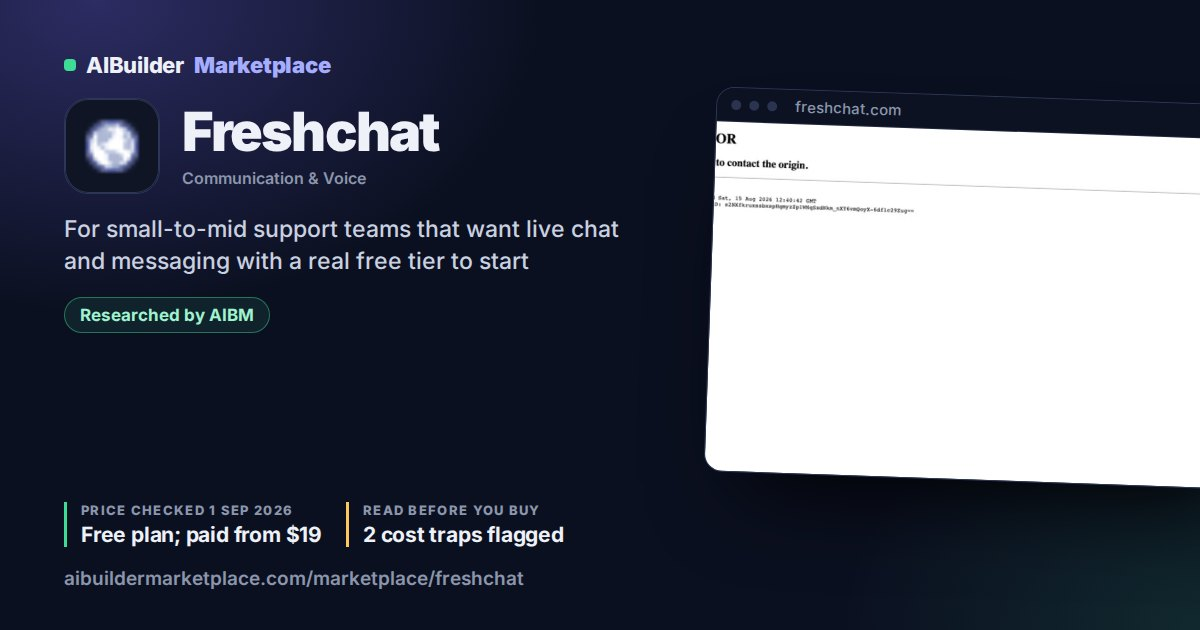
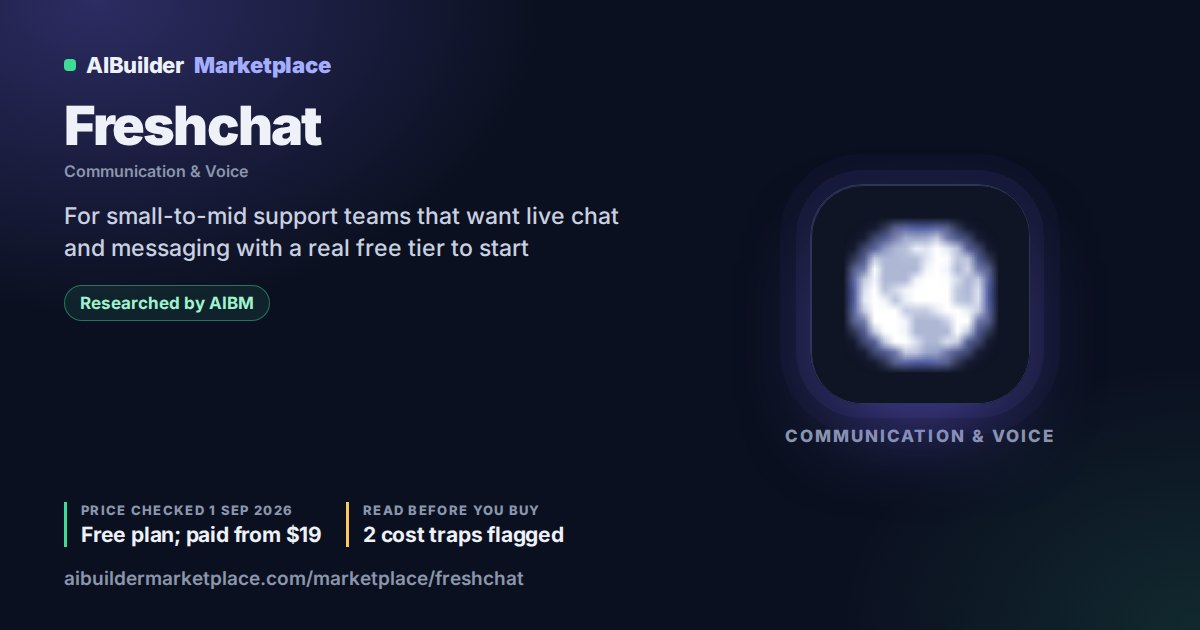
marketplace: automatische herbouw (580 pagina's)

Changed region(s): [[0.5858, 0.1508, 1.0, 0.7841], [0.0308, 0.3317, 0.5242, 0.5429], [0.0308, 0.1508, 0.37, 0.3016]]

diff --git a/marketplace/index.html b/marketplace/index.html
@@ -805,7 +805,7 @@ a.cta:hover{background:linear-gradient(120deg,#7b82ff,#a77cff)}
 <div class="mc" data-slug="hive" data-zoek="hive operations &amp; workflow projects, planning &amp; team workflow project teams that want flexible pm (gantt, kanban, forms, chat) and only pay for the modules they actually use" data-cat="Operations &amp; Workflow" data-hoofd="Operations &amp; HR" data-gratis="1" data-publiek="1" data-taak="projects, planning &amp; team workflow" data-eigen="operations &amp; workflow project teams that want flexible pm (gantt, kanban, forms, chat) and only pay for the modules they actually use" data-claimed="0" data-groepw="operations &amp; hr project task workflow hr hiring time tracking scheduling team" data-recent="2026-09-03" data-listed="" data-prijs="5" data-vlaggen="3" data-datum="2026-09-03" data-naam="hive" data-i="234"><a class="mc-l" href="/marketplace/hive/"><div class="mc-md"><img src="/marketplace/media/shot-hive.webp" alt="Hive product page" loading="lazy" width="720" height="450"></div><div class="mc-b"><div class="mc-top"><div class="mono" aria-hidden="true">H<img class="fav" src="https://www.google.com/s2/favicons?sz=128&amp;domain=hive.com" alt="" loading="lazy" onerror="this.remove()"></div><div class="mc-h"><h3><strong>Hive</strong></h3><p class="mc-cat">Operations &amp; Workflow</p></div></div><p class="mc-d"><span style="color:#a8b3c4">For</span> project teams that want flexible PM (Gantt, Kanban, forms, chat) and only pay for the modules they actually use</p><p class="mc-p"><b>Free plan; paid from $5</b><span>per user a month, yearly billing</span></p><p class="mc-w">Watch for: Per-seat pricing, Usage-metered</p><div class="mc-f"><span class="st st-r">Researched by AIBM</span> </div><div class="mc-dt">Price checked by us 3 Sep 2026</div></div></a><label class="mc-cmp"><input type="checkbox" value="hive" aria-label="Compare Hive"> Compare</label></div>
 <div class="mc" data-slug="modge" data-zoek="modge hr &amp; people time tracking, shifts &amp; attendance desk-bound remote or hybrid teams of a few to a few hundred people who want time tracking, app classification, shift…" data-cat="HR &amp; People" data-hoofd="Operations &amp; HR" data-gratis="0" data-publiek="1" data-taak="time tracking, shifts &amp; attendance" data-eigen="hr &amp; people desk-bound remote or hybrid teams of a few to a few hundred people who want time tracking, app classification, shift…" data-claimed="0" data-groepw="operations &amp; hr project task workflow hr hiring time tracking scheduling team" data-recent="2026-09-03" data-listed="" data-prijs="4" data-vlaggen="3" data-datum="2026-09-03" data-naam="modge" data-i="312"><a class="mc-l" href="/marketplace/modge/"><div class="mc-md"><img src="/marketplace/media/shot-modge.webp" alt="Modge product page" loading="lazy" width="720" height="450"></div><div class="mc-b"><div class="mc-top"><div class="mono" aria-hidden="true">M<img class="fav" src="https://www.google.com/s2/favicons?sz=128&amp;domain=modge.com" alt="" loading="lazy" onerror="this.remove()"></div><div class="mc-h"><h3><strong>Modge</strong></h3><p class="mc-cat">HR &amp; People</p></div></div><p class="mc-d"><span style="color:#a8b3c4">For</span> desk-bound remote or hybrid teams of a few to a few hundred people who want time tracking, app classification, shift…</p><p class="mc-p"><b>from $4</b><span>Basic · per seat a month billed annually ($5 monthly)</span></p><p class="mc-w">Watch for: Per-seat pricing, Add-ons extra</p><div class="mc-f"><span class="st st-r">Researched by AIBM</span> </div><div class="mc-dt">Price checked by us 3 Sep 2026</div></div></a><label class="mc-cmp"><input type="checkbox" value="modge" aria-label="Compare Modge"> Compare</label></div>
 <div class="mc" data-slug="chemicloud" data-zoek="chemicloud it &amp; productivity hosting &amp; websites small businesses, freelancers and growing sites that want fast, well-supported managed shared or wordpress hosting at…" data-cat="IT &amp; Productivity" data-hoofd="IT, security &amp; dev" data-gratis="0" data-publiek="1" data-taak="hosting &amp; websites" data-eigen="it &amp; productivity small businesses, freelancers and growing sites that want fast, well-supported managed shared or wordpress hosting at…" data-claimed="0" data-groepw="it, security &amp; dev security password vpn backup hosting website developer api ai data" data-recent="2026-09-02" data-listed="" data-prijs="1.95" data-vlaggen="1" data-datum="2026-09-02" data-naam="chemicloud" data-i="99"><a class="mc-l" href="/marketplace/chemicloud/"><div class="mc-md"><img src="/marketplace/media/shot-chemicloud.webp" alt="ChemiCloud product page" loading="lazy" width="720" height="450"></div><div class="mc-b"><div class="mc-top"><div class="mono" aria-hidden="true">C<img class="fav" src="https://www.google.com/s2/favicons?sz=128&amp;domain=chemicloud.com" alt="" loading="lazy" onerror="this.remove()"></div><div class="mc-h"><h3><strong>ChemiCloud</strong></h3><p class="mc-cat">IT &amp; Productivity</p></div></div><p class="mc-d"><span style="color:#a8b3c4">For</span> small businesses, freelancers and growing sites that want fast, well-supported managed shared or WordPress hosting at…</p><p class="mc-p"><b>from $1.95</b><span>per month on the 36-month term (September campaign)</span></p><p class="mc-w">Watch for: Renewal jump</p><div class="mc-f"><span class="st st-r">Researched by AIBM</span> </div><div class="mc-dt">Price checked by us 2 Sep 2026</div></div></a><label class="mc-cmp"><input type="checkbox" value="chemicloud" aria-label="Compare ChemiCloud"> Compare</label></div>
-<div class="mc" data-slug="freshchat" data-zoek="freshchat communication &amp; voice website or shopify chat &amp; faq deflection small-to-mid support teams that want live chat and messaging with a real free tier to start" data-cat="Communication &amp; Voice" data-hoofd="Support &amp; phone" data-gratis="1" data-publiek="1" data-taak="website or shopify chat &amp; faq deflection" data-eigen="communication &amp; voice small-to-mid support teams that want live chat and messaging with a real free tier to start" data-claimed="0" data-groepw="support &amp; phone helpdesk help desk ticket tickets chat live chat phone call calls voip support" data-recent="2026-09-01" data-listed="" data-prijs="19" data-vlaggen="2" data-datum="2026-09-01" data-naam="freshchat" data-i="202"><a class="mc-l" href="/marketplace/freshchat/"><div class="mc-md"><img src="/marketplace/media/shot-freshchat.webp" alt="Freshchat product page" loading="lazy" width="720" height="450"></div><div class="mc-b"><div class="mc-top"><div class="mono" aria-hidden="true">F<img class="fav" src="https://www.google.com/s2/favicons?sz=128&amp;domain=freshchat.com" alt="" loading="lazy" onerror="this.remove()"></div><div class="mc-h"><h3><strong>Freshchat</strong></h3><p class="mc-cat">Communication &amp; Voice</p></div></div><p class="mc-d"><span style="color:#a8b3c4">For</span> small-to-mid support teams that want live chat and messaging with a real free tier to start</p><p class="mc-p"><b>Free plan; paid from $19</b><span>per agent a month billed annually ($23 monthly)</span></p><p class="mc-w">Watch for: Per-seat pricing, Add-ons extra</p><div class="mc-f"><span class="st st-r">Researched by AIBM</span> </div><div class="mc-dt">Price checked by us 1 Sep 2026</div></div></a><label class="mc-cmp"><input type="checkbox" value="freshchat" aria-label="Compare Freshchat"> Compare</label></div>
+<div class="mc" data-slug="freshchat" data-zoek="freshchat communication &amp; voice website or shopify chat &amp; faq deflection small-to-mid support teams that want live chat and messaging with a real free tier to start" data-cat="Communication &amp; Voice" data-hoofd="Support &amp; phone" data-gratis="1" data-publiek="1" data-taak="website or shopify chat &amp; faq deflection" data-eigen="communication &amp; voice small-to-mid support teams that want live chat and messaging with a real free tier to start" data-claimed="0" data-groepw="support &amp; phone helpdesk help desk ticket tickets chat live chat phone call calls voip support" data-recent="2026-09-01" data-listed="" data-prijs="19" data-vlaggen="2" data-datum="2026-09-01" data-naam="freshchat" data-i="202"><a class="mc-l" href="/marketplace/freshchat/"><div class="mc-md mc-leeg"><div class="mc-mono"><div class="mono" aria-hidden="true">F<img class="fav" src="https://www.google.com/s2/favicons?sz=128&amp;domain=freshchat.com" alt="" loading="lazy" onerror="this.remove()"></div><span>Communication &amp; Voice</span></div></div><div class="mc-b"><div class="mc-top"><div class="mono" aria-hidden="true">F<img class="fav" src="https://www.google.com/s2/favicons?sz=128&amp;domain=freshchat.com" alt="" loading="lazy" onerror="this.remove()"></div><div class="mc-h"><h3><strong>Freshchat</strong></h3><p class="mc-cat">Communication &amp; Voice</p></div></div><p class="mc-d"><span style="color:#a8b3c4">For</span> small-to-mid support teams that want live chat and messaging with a real free tier to start</p><p class="mc-p"><b>Free plan; paid from $19</b><span>per agent a month billed annually ($23 monthly)</span></p><p class="mc-w">Watch for: Per-seat pricing, Add-ons extra</p><div class="mc-f"><span class="st st-r">Researched by AIBM</span> </div><div class="mc-dt">Price checked by us 1 Sep 2026</div></div></a><label class="mc-cmp"><input type="checkbox" value="freshchat" aria-label="Compare Freshchat"> Compare</label></div>
 <div class="mc" data-slug="pylon" data-zoek="pylon communication &amp; voice a help desk, tickets or a shared inbox b2b saas teams supporting customers in shared slack/teams channels who want tickets, accounts and ai in one…" data-cat="Communication &amp; Voice" data-hoofd="Support &amp; phone" data-gratis="0" data-publiek="0" data-taak="a help desk, tickets or a shared inbox" data-eigen="communication &amp; voice b2b saas teams supporting customers in shared slack/teams channels who want tickets, accounts and ai in one…" data-claimed="0" data-groepw="support &amp; phone helpdesk help desk ticket tickets chat live chat phone call calls voip support" data-recent="2026-09-01" data-listed="" data-prijs="999999" data-vlaggen="2" data-datum="2026-09-01" data-naam="pylon" data-i="387"><a class="mc-l" href="/marketplace/pylon/"><div class="mc-md"><img src="/marketplace/media/shot-pylon.webp" alt="Pylon product page" loading="lazy" width="720" height="450"></div><div class="mc-b"><div class="mc-top"><div class="mono" aria-hidden="true">P<img class="fav" src="https://www.google.com/s2/favicons?sz=128&amp;domain=usepylon.com" alt="" loading="lazy" onerror="this.remove()"></div><div class="mc-h"><h3><strong>Pylon</strong></h3><p class="mc-cat">Communication &amp; Voice</p></div></div><p class="mc-d"><span style="color:#a8b3c4">For</span> B2B SaaS teams supporting customers in shared Slack/Teams channels who want tickets, accounts and AI in one…</p><p class="mc-w">Watch for: Per-seat pricing, Usage-metered</p><div class="mc-f"><span class="st st-r">Researched by AIBM</span> </div><div class="mc-dt">Price checked by us 1 Sep 2026</div></div></a><label class="mc-cmp"><input type="checkbox" value="pylon" aria-label="Compare Pylon"> Compare</label></div>
 <div class="mc" data-slug="emergent" data-zoek="emergent it &amp; productivity ai development, agents &amp; data founders, pms and builders who want to turn a prompt into a working full-stack web app or mvp fast, without writing…" data-cat="IT &amp; Productivity" data-hoofd="IT, security &amp; dev" data-gratis="1" data-publiek="1" data-taak="ai development, agents &amp; data" data-eigen="it &amp; productivity founders, pms and builders who want to turn a prompt into a working full-stack web app or mvp fast, without writing…" data-claimed="0" data-groepw="it, security &amp; dev security password vpn backup hosting website developer api ai data" data-recent="2026-08-31" data-listed="" data-prijs="20" data-vlaggen="2" data-datum="2026-08-31" data-naam="emergent" data-i="164"><a class="mc-l" href="/marketplace/emergent/"><div class="mc-md"><img src="/marketplace/media/shot-emergent.webp" alt="Emergent product page" loading="lazy" width="720" height="450"></div><div class="mc-b"><div class="mc-top"><div class="mono" aria-hidden="true">E<img class="fav" src="https://www.google.com/s2/favicons?sz=128&amp;domain=emergent.sh" alt="" loading="lazy" onerror="this.remove()"></div><div class="mc-h"><h3><strong>Emergent</strong></h3><p class="mc-cat">IT &amp; Productivity</p></div></div><p class="mc-d"><span style="color:#a8b3c4">For</span> founders, PMs and builders who want to turn a prompt into a working full-stack web app or MVP fast, without writing…</p><p class="mc-p"><b>Free plan; paid from $20</b><span>per month ($17 yearly) for 100 credits</span></p><p class="mc-w">Watch for: Usage-metered, Annual commit</p><div class="mc-f"><span class="st st-r">Researched by AIBM</span> </div><div class="mc-dt">Price checked by us 31 Aug 2026</div></div></a><label class="mc-cmp"><input type="checkbox" value="emergent" aria-label="Compare Emergent"> Compare</label></div>
 <div class="mc" data-slug="fast-bundle" data-zoek="fast bundle marketing e-commerce growth boost you shopify store aov with bundle and upsell offers like free gifts, bogo, bundle builder, fbt, &amp; volume…" data-cat="Marketing" data-hoofd="Marketing &amp; sales" data-gratis="0" data-publiek="1" data-taak="e-commerce growth" data-eigen="marketing boost you shopify store aov with bundle and upsell offers like free gifts, bogo, bundle builder, fbt, &amp; volume…" data-claimed="1" data-groepw="marketing &amp; sales email newsletter crm leads outreach seo ads advertising social marketing sales" data-recent="2026-08-31" data-listed="2026-08-31" data-prijs="19" data-vlaggen="2" data-datum="2026-08-24" data-naam="fast bundle" data-i="182"><a class="mc-l" href="/marketplace/fast-bundle/"><div class="mc-md"><img src="/marketplace/media/fast-bundle-shot0.png" alt="Fast Bundle product page" loading="lazy" width="720" height="450"></div><div class="mc-b"><div class="mc-top"><img src="/marketplace/media/fast-bundle-logo.png" alt="" loading="lazy" width="40" height="40"><div class="mc-h"><h3><strong>Fast Bundle</strong></h3><p class="mc-cat">Marketing</p></div></div><p class="mc-d">Boost you Shopify store AOV with bundle and upsell offers like Free Gifts, BOGO, Bundle Builder, FBT, &amp; volume…</p><p class="mc-p"><b>from $19</b><span>Standard (1K) · per month on the App Store listing, or $180 a year…</span></p><p class="mc-w">Watch for: Usage-metered, Annual commit</p><div class="mc-f"><span class="st st-r">Researched by AIBM</span> <span class="st st-v">Listed by the vendor</span> <span class="st st-d">Reader deal</span> </div><div class="mc-dt">Price checked by us 24 Aug 2026 &middot; Listed 31 Aug 2026</div></div></a><label class="mc-cmp"><input type="checkbox" value="fast-bundle" aria-label="Compare Fast Bundle"> Compare</label></div>

diff --git a/marketplace/freshchat/index.html b/marketplace/freshchat/index.html
@@ -225,7 +225,7 @@ a.cta:hover{background:linear-gradient(120deg,#7b82ff,#a77cff)}
 <nav class="nav"><div class="nav-in"><a href="/" class="logo-t"><em>AIBuilder</em> Marketplace</a><div class="navl"><a href="/marketplace/">Marketplace</a><a href="/atlas/">Atlas</a><a href="/b2b/">Reviews</a><a href="/deals/">Deals</a><a href="/tools/">Free Tools</a><a href="/about/">About</a></div></div></nav>
 <nav class="subnav" aria-label="Marketplace listings"><div class="subnav-in"><a class="sn-back" href="/marketplace/">&larr; Marketplace</a><span class="sn-pos">203 of 580</span><div class="sn-pn"><a class="sn-b" rel="prev" href="/marketplace/freshbooks/" title="Previous listing: FreshBooks" aria-label="Previous listing: FreshBooks">&larr; <span>FreshBooks</span></a><a class="sn-b" rel="next" href="/marketplace/freshservice/" title="Next listing: Freshservice" aria-label="Next listing: Freshservice"><span>Freshservice</span> &rarr;</a></div></div></nav>
 <div class="wrap lp">
-<div class="lp-hero"><div><div class="mono" aria-hidden="true">F<img class="fav" src="https://www.google.com/s2/favicons?sz=128&amp;domain=freshchat.com" alt="" loading="lazy" onerror="this.remove()"></div><h1>Freshchat</h1><p class="lp-lede">For small-to-mid support teams that want live chat and messaging with a real free tier to start</p><div><span class="st st-r">Researched by AIBM</span> <span class="st st-o">Not claimed by the vendor</span></div><div class="lp-acts"><a class="cta" href="https://affiliatepartner-freshchat.freshworks.com/613iz3k6u70i" target="_blank" rel="sponsored nofollow noopener">Visit Freshchat &rarr;</a><a class="btn" href="/marketplace/compare/?t=freshchat">Compare</a><button type="button" class="btn" data-deel>Share</button></div><p class="lp-disc">Affiliate disclosure: this is a partner link. We may earn a commission if you sign up, at no extra cost to you. It does not change what our research says.</p></div><div class="frame"><div class="mz-bar"><i></i><i></i><i></i><span>freshchat.com</span></div><img src="/marketplace/media/shot-freshchat.webp" alt="Freshchat product page" width="720" height="450"></div></div>
+<div class="lp-hero"><div><div class="mono" aria-hidden="true">F<img class="fav" src="https://www.google.com/s2/favicons?sz=128&amp;domain=freshchat.com" alt="" loading="lazy" onerror="this.remove()"></div><h1>Freshchat</h1><p class="lp-lede">For small-to-mid support teams that want live chat and messaging with a real free tier to start</p><div><span class="st st-r">Researched by AIBM</span> <span class="st st-o">Not claimed by the vendor</span></div><div class="lp-acts"><a class="cta" href="https://affiliatepartner-freshchat.freshworks.com/613iz3k6u70i" target="_blank" rel="sponsored nofollow noopener">Visit Freshchat &rarr;</a><a class="btn" href="/marketplace/compare/?t=freshchat">Compare</a><button type="button" class="btn" data-deel>Share</button></div><p class="lp-disc">Affiliate disclosure: this is a partner link. We may earn a commission if you sign up, at no extra cost to you. It does not change what our research says.</p></div><div class="frame"><div class="mz-bar"><i></i><i></i><i></i><span>freshchat.com</span></div><div class="mc-leeg"><div class="mc-mono"><div class="mono" aria-hidden="true">F<img class="fav" src="https://www.google.com/s2/favicons?sz=128&amp;domain=freshchat.com" alt="" loading="lazy" onerror="this.remove()"></div><span>Communication &amp; Voice</span></div></div></div></div>
 <div class="feiten"><div><h5>Category</h5><p>Communication &amp; Voice</p></div><div><h5>Price</h5><p>Free plan; paid from $19</p></div><div><h5>Price basis</h5><p>per agent a month billed annually ($23 monthly)</p></div><div><h5>Our research</h5><p>price read 1 Sep 2026</p></div></div><div class="kb-los"><a class="btn" href="/check/?product=freshchat&amp;units=5&amp;billing=annual">Check it for your team size and budget &rarr;</a></div><div class="notclaim">🔎 <strong>Unclaimed — this is our research, not their listing.</strong> Freshchat has not submitted anything to us, has not seen or approved this page, and has not claimed this listing. There is no vendor description here, and we have not written one on their behalf. Everything below comes from our own dossier — the same one behind <a href="/atlas/">the Honest Software Atlas</a>. Reader reviews are moderated for spam only; critical ones get published too.</div>
 <div class="dos"><h2>What we found &mdash; independently</h2><p class="muted" style="margin:0 0 4px;font-size:.9rem">Researched by AIBM, not supplied by the vendor. The vendor has not been involved in this page at all.</p><div class="card" style="margin:16px 0"><b style="display:block;font-size:.7rem;letter-spacing:.09em;text-transform:uppercase;color:#8b9ab0;margin-bottom:4px">Our pricing check &middot; re-verified 2026-09-01</b>Read 1 Sep 2026 on freshworks.com/live-chat-software/pricing/ (USD fields of the page own plan data).</div><div class="card" style="margin:16px 0;border-left:4px solid #f59e0b"><b style="display:block;font-size:.7rem;letter-spacing:.09em;text-transform:uppercase;color:#f59e0b;margin-bottom:4px">What will cost you money if you skim it</b>The free tier is genuinely useful for small teams, but AI features and higher-tier routing sit behind paid plans and add-ons — and being part of the wider Freshworks suite means you&#x27;ll be nudged toward the full platform.</div><h2 style="font-size:1rem">Cost-trap flags &mdash; each with its evidence</h2><div class="flag"><div class="fl-t">🪑 Per-seat pricing <span class="muted" style="font-weight:400;font-size:.85rem">&mdash; Cost scales with every user you add</span></div><div class="fl-e">&ldquo;Per agent per month: Growth $19 billed annually or $23 monthly, Pro $49 or $59, Enterprise $79 or $95.&rdquo;</div></div><div class="flag"><div class="fl-t">🧩 Add-ons extra <span class="muted" style="font-weight:400;font-size:.85rem">&mdash; Key features are paid add-ons on top of the plan</span></div><div class="fl-e">&ldquo;Freddy AI is a separate bill, and both rates are published: the Freddy AI Copilot add-on is $29/agent/mo billed annually ($35 monthly), and Freddy AI Agent sessions cost $49 per 100 sessions beyond the 500 complimentary sessions each paid account receives once.&rdquo;</div></div><div class="flag"><div class="fl-t">🆓 Free tier <span class="muted" style="font-weight:400;font-size:.85rem">&mdash; A genuinely free plan or version exists</span></div><div class="fl-e">&ldquo;Free is $0 for up to 10 agents.&rdquo;</div></div><div class="split"><div class="bs b"><h3>Genuinely good for</h3><p>small-to-mid support teams that want live chat and messaging with a real free tier to start</p></div><div class="bs s"><h3>Skip it if</h3><p>you need a full help-desk and ticketing system, not just chat — look at a complete support suite instead of bolting on channels</p></div></div><div class="card" style="margin:16px 0"><b style="display:block;font-size:.7rem;letter-spacing:.09em;text-transform:uppercase;color:#8b9ab0;margin-bottom:4px">The honest comparison</b><strong>Intercom or Tidio</strong> &mdash; other live-chat and messaging tools</div><p style="margin:18px 0 0"><a class="cta" href="/b2b/freshchat-review/">Read our full Freshchat review &rarr;</a></p><p class="bron">Source: our own researched dossier on Freshchat, the same one behind <a href="/atlas/">the Honest Software Atlas</a> and our reviews. Flags are derived from that text and each one carries the sentence it came from, so you can judge it yourself. Prices move &mdash; always check the vendor&rsquo;s live pricing page before you buy.</p></div>
 <section class="vq"><p class="herk herk-n">Open questions</p><h2>What our research could not answer about Freshchat</h2><ul class="vq-l"><li>Can a customer cancel at any time, and what happens to an annual plan that is cancelled mid-term?</li><li>Which data can a customer export, in which formats, on which plans?</li><li>Where is customer data stored, and can a customer choose the region?</li><li>Is there a minimum number of seats or users on any plan?</li></ul><details class="va-form"><summary>For the Freshchat team: answer one of these questions (optional)</summary><p class="muted" style="margin:10px 0">Your answer is read by a person before it is published, then shown here as a dated statement from your company, next to our research and never mixed into it. We publish your role and your email domain, never your name or address. Please link the page where it is documented.</p><form class="va-f" data-product="freshchat"><label>Question<select name="question_id" required><option value="freshchat:cancellation_terms">Can a customer cancel at any time, and what happens to an annual plan that is cancelled mid-term?</option><option value="freshchat:data_export">Which data can a customer export, in which formats, on which plans?</option><option value="freshchat:data_location">Where is customer data stored, and can a customer choose the region?</option><option value="freshchat:minimum_seats">Is there a minimum number of seats or users on any plan?</option></select></label><label>Your answer<textarea name="answer" rows="4" minlength="20" maxlength="1500" required></textarea></label><label>Where it is documented (https link on your site)<input name="source_url" type="url" placeholder="https://"></label><div class="va-2"><label>Your role<input name="role" maxlength="80" placeholder="e.g. Head of Product"></label><label>Work email<input name="email" type="email" required></label></div><input name="website" tabindex="-1" autocomplete="off" style="position:absolute;left:-9999px" aria-hidden="true"><button class="btn" type="submit">Send for review</button><p class="va-uit" role="status"></p></form></details></section><div class="claim"><strong>Work at Freshchat? This page is yours the moment you claim it.</strong><p class="muted" style="margin:8px 0 14px">Write your own description and it appears at the top of this page, in your words, free — no fee during beta and no strings. What does not change: our research stays exactly where it is, underneath, and you cannot edit it. That is the point of the page. Two honest caveats before you bother: our audience is still modest and growing, and the outbound link is <code>nofollow ugc</code>, so this is not an SEO play.</p><a class="cta" href="/list-your-saas/?tool=freshchat&amp;name=Freshchat&amp;url=https%3A%2F%2Ffreshchat.com&amp;cat=Communication+%26+Voice">Claim this page &mdash; free &rarr;</a><p class="muted" style="font-size:.82rem;margin:12px 0 0">We have pre-filled the name, site and category we already have on file, so the only thing left to write is the description. A claimed page also drops the <code>noindex</code> we keep on research-only pages.</p></div>
